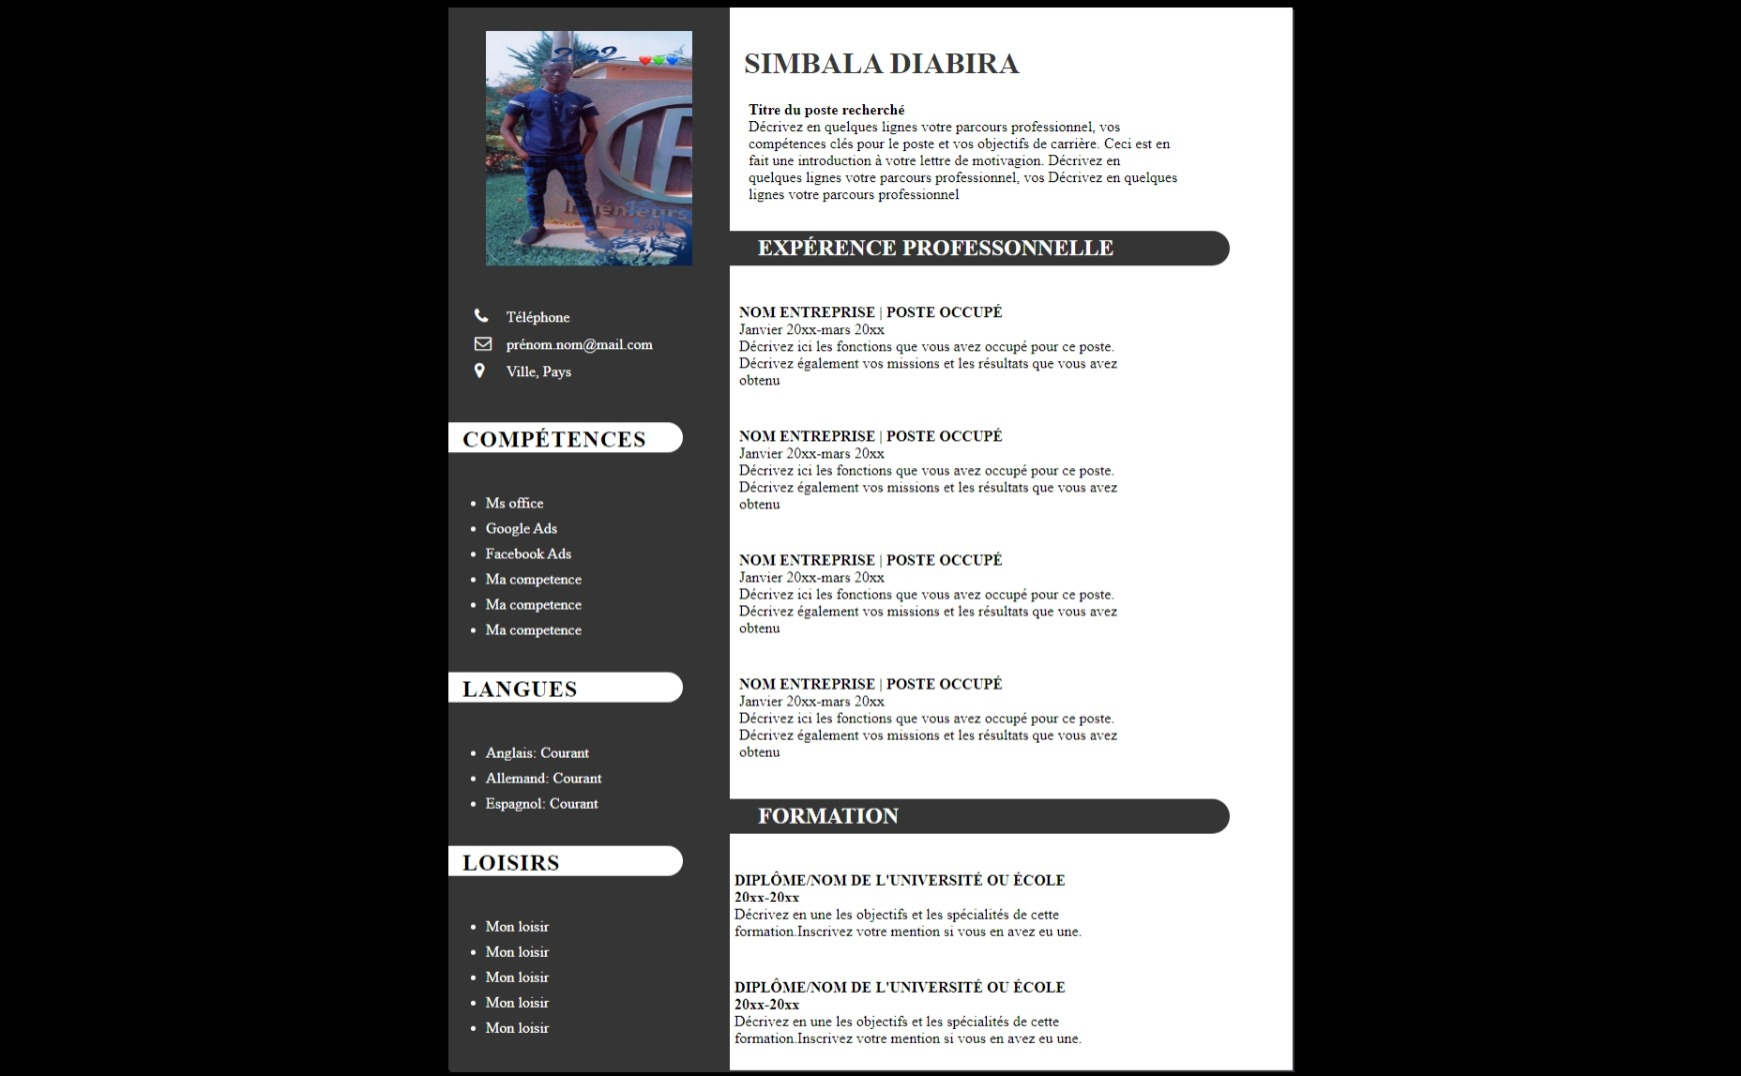
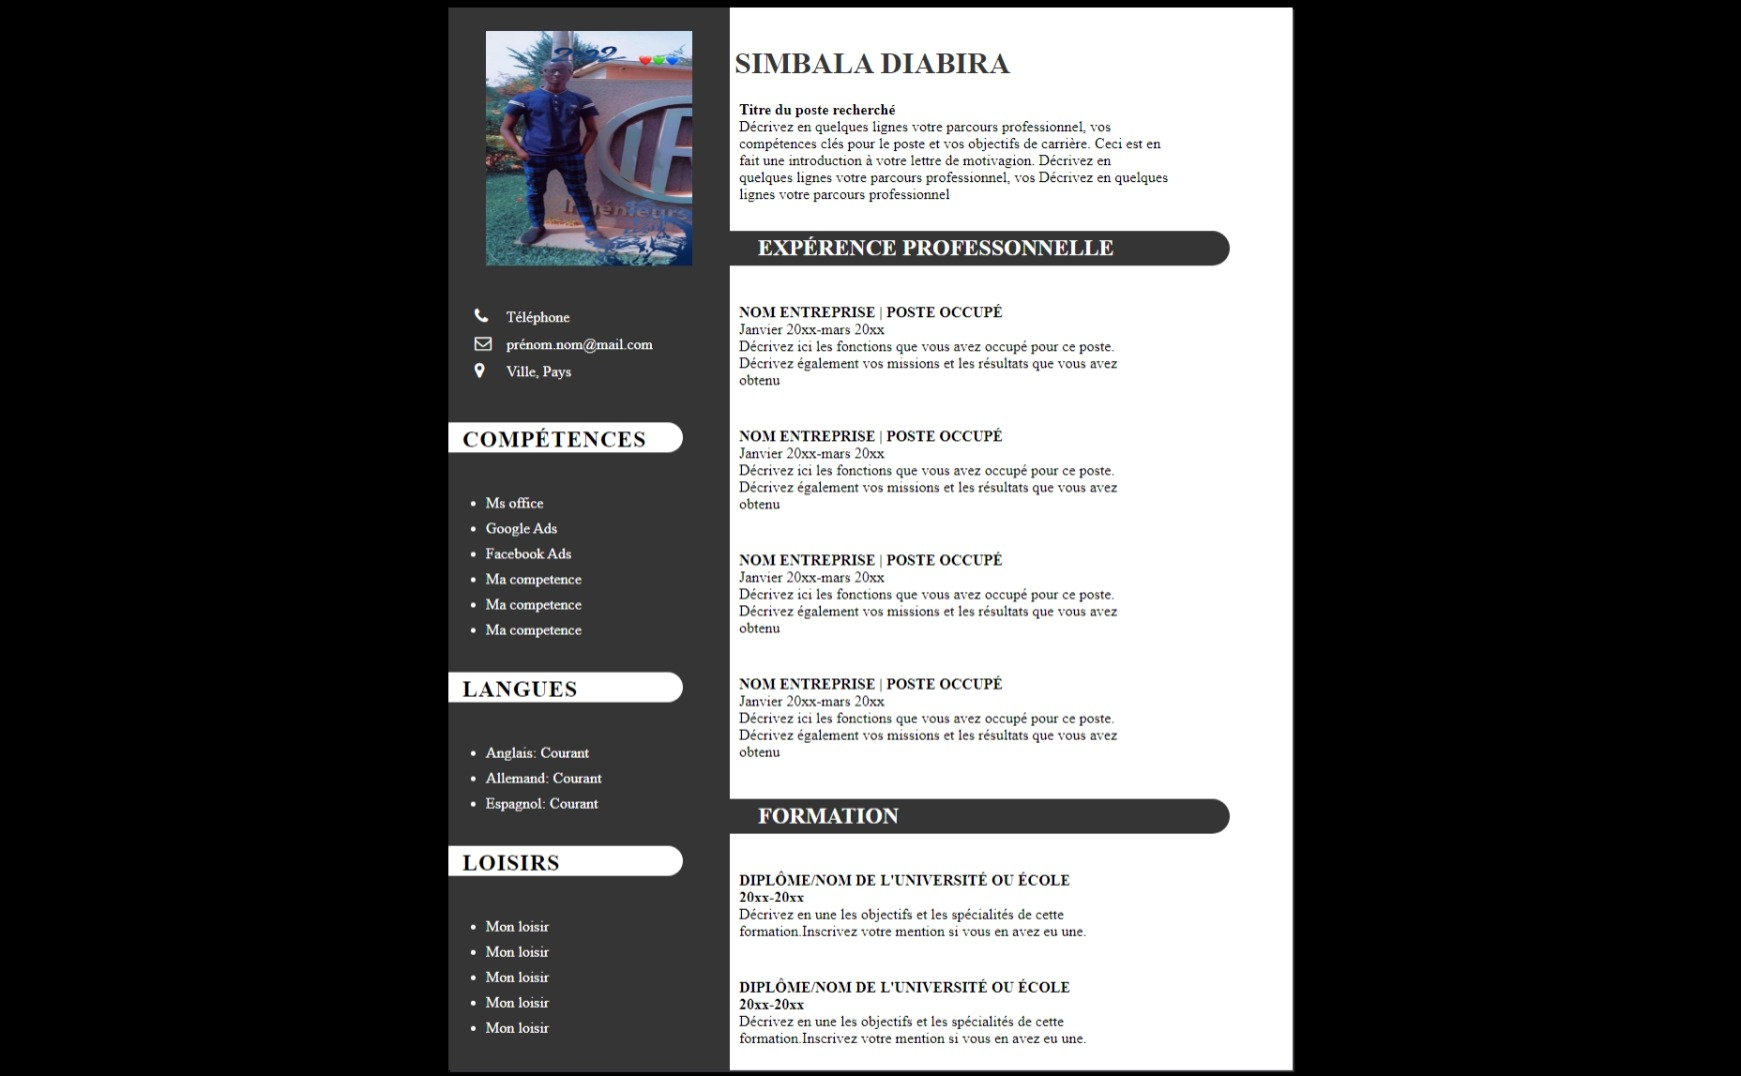
Modification de fichier css et capture

Changed region(s): [[0.4032, 0.7974, 0.6203, 0.9814], [0.4032, 0.0307, 0.6824, 0.184]]

diff --git a/CSS/style.css b/CSS/style.css
@@ -93,7 +93,7 @@ ul{
 
 h1 {
     text-transform: uppercase;
-    padding-left: 15px;
+    padding-left: 5px;
     
     padding-top: 20px;
     color: #383838;
@@ -105,7 +105,7 @@ h1 {
     
 }
 .intro{
-    padding-left: 20px;
+    padding-left: 10px;
     
     
     margin-bottom: 30px;
@@ -125,8 +125,9 @@ h1 {
     color: #000000;
 }
 .section2{
-    padding-left: 10px;
+    /*padding-left: 5px;*/
     padding: 5px;
+    margin-left: 5px;
 }
 .min-title-form{
     color: #000000;
